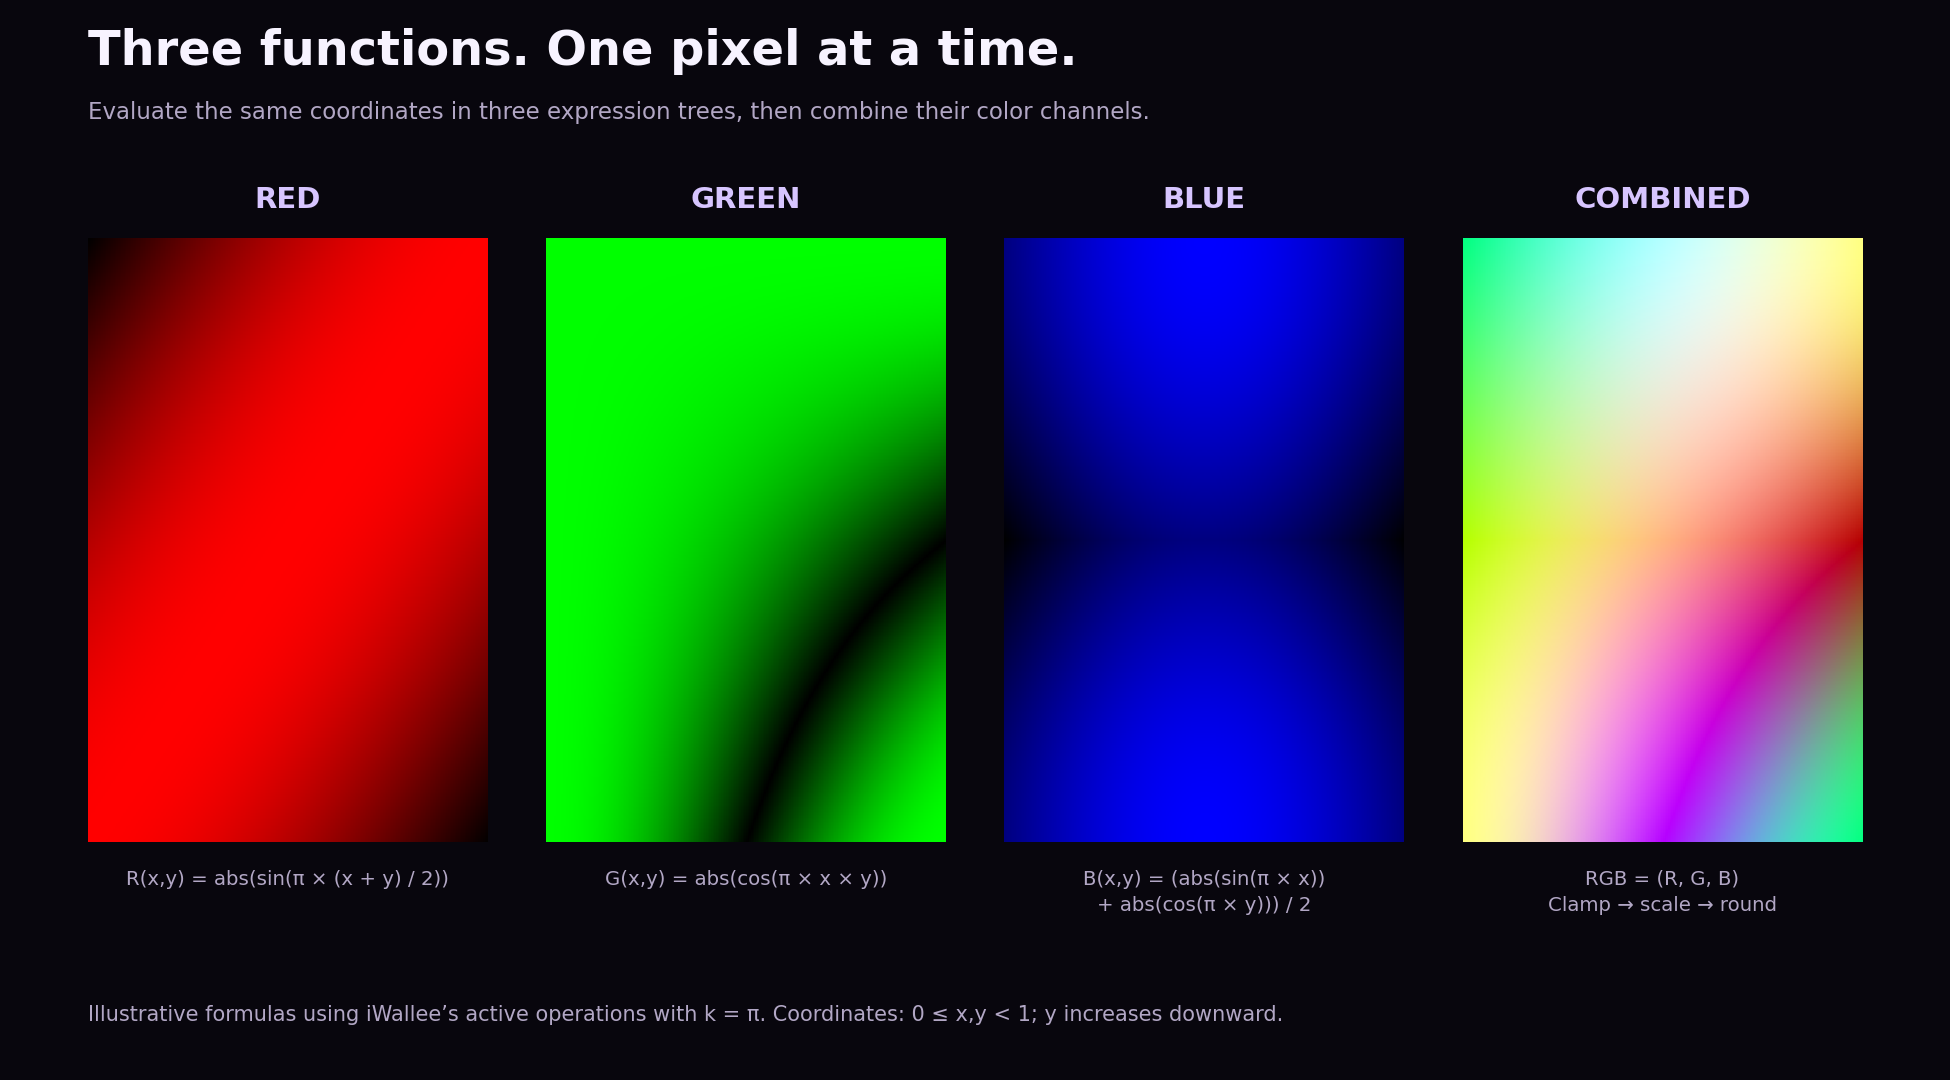
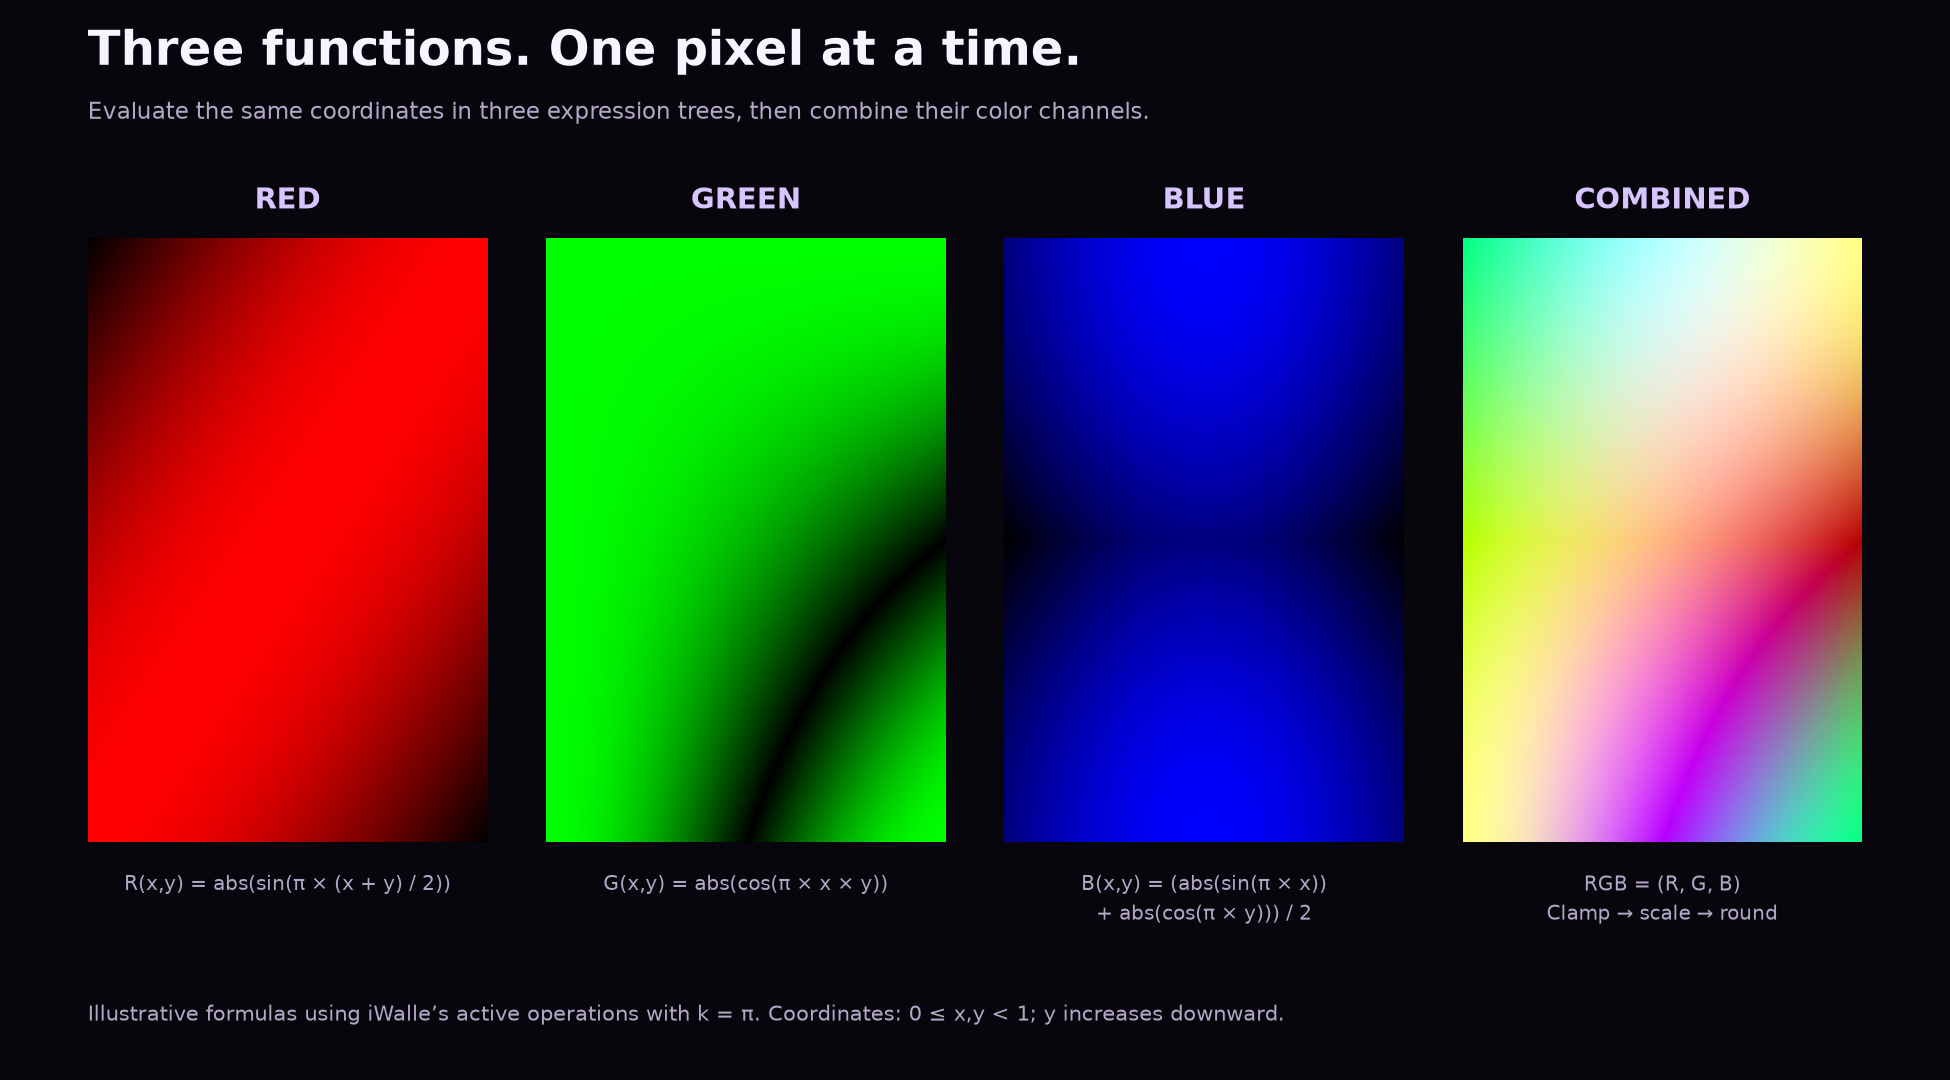
Standardize app branding as iWalle

diff --git a/RandomArt/StudioTheme.swift b/RandomArt/StudioTheme.swift
@@ -1,6 +1,6 @@
 import UIKit
 
-/// One palette and a small set of controls keep every screen feeling like iWallee.
+/// One palette and a small set of controls keep every screen feeling like iWalle.
 enum StudioTheme {
     static let background = UIColor(hex: 0x08060D)
     static let surface = UIColor(hex: 0x15101F)
@@ -29,7 +29,7 @@ enum StudioTheme {
     }
 
     static func logoView(size: CGFloat) -> UIImageView {
-        let imageView = UIImageView(image: UIImage(named: "iWalleeMark"))
+        let imageView = UIImageView(image: UIImage(named: "iWalleMark"))
         imageView.contentMode = .scaleAspectFit
         imageView.layer.cornerRadius = size * 0.22
         imageView.clipsToBounds = true

diff --git a/RandomArt/ViewControllers/SideBarMenuVC.swift b/RandomArt/ViewControllers/SideBarMenuVC.swift
@@ -2,7 +2,7 @@
 //  SideBarMenuVC.swift
 //  RandomArt
 //
-//  Purple-and-black navigation for the iWallee studio.
+//  Purple-and-black navigation for the iWalle studio.
 //
 
 import UIKit
@@ -61,7 +61,7 @@ class SideBarMenuVC: UIViewController {
 
         let logo = StudioTheme.logoView(size: 52)
         profileView = logo
-        let title = StudioTheme.label("iWallee", size: 25, weight: .bold)
+        let title = StudioTheme.label("iWalle", size: 25, weight: .bold)
         title.numberOfLines = 0
         let subtitle = StudioTheme.label("MATH INTO ART", size: 10, weight: .semibold,
                                         color: StudioTheme.lavender)

diff --git a/RandomArt/ViewControllers/HowToChangeWallpaperVC.swift b/RandomArt/ViewControllers/HowToChangeWallpaperVC.swift
@@ -53,7 +53,7 @@ class HowToChangeWallpaperVC: UIViewController {
         ))
         content.addArrangedSubview(instruction(
             number: "02", title: "Save the one you love",
-            body: "Tap Save in Studio, or Save to Photos in the Collection, and allow iWallee to add the image to your library. Wait for the saved confirmation before leaving."
+            body: "Tap Save in Studio, or Save to Photos in the Collection, and allow iWalle to add the image to your library. Wait for the saved confirmation before leaving."
         ))
         content.addArrangedSubview(instruction(
             number: "03", title: "Give it a home",

diff --git a/RandomArtTests/RandomArtTests.swift b/RandomArtTests/RandomArtTests.swift
@@ -3,6 +3,13 @@ import UIKit
 @testable import RandomArt
 
 final class RandomArtTests: XCTestCase {
+    @MainActor
+    func testProductBrandingMatchesAppStoreName() {
+        let appBundle = Bundle(for: CanvasVC.self)
+        XCTAssertEqual(appBundle.object(forInfoDictionaryKey: "CFBundleDisplayName") as? String, "iWalle")
+        XCTAssertNotNil(UIImage(named: "iWalleMark", in: appBundle, compatibleWith: nil))
+    }
+
     func testGeneratedExpressionsStayInRGBRange() {
         for depth in [1, 2, 4, 7, 11] {
             let tree = MathBinaryTree(depth: depth)

diff --git a/RandomArt/ViewControllers/CanvasV.swift b/RandomArt/ViewControllers/CanvasV.swift
@@ -49,7 +49,7 @@ class CanvasV: UIView {
     // This changes with the displayed image, not when the next complexity is selected.
     var currentFormulas: WallpaperFormulas? { currentEquations?.formulas }
 
-    private let renderingQueue = DispatchQueue(label: "iwallee.wallpaper.render", qos: .userInitiated)
+    private let renderingQueue = DispatchQueue(label: "iwalle.wallpaper.render", qos: .userInitiated)
 
     override func awakeFromNib() {
         super.awakeFromNib()

diff --git a/RandomArt/ViewControllers/WallpaperLaunchAnimationView.swift b/RandomArt/ViewControllers/WallpaperLaunchAnimationView.swift
@@ -23,7 +23,7 @@ final class WallpaperLaunchAnimationView: UIView {
     private var previousAccessibilityHidden = false
     private var usesReducedMotion = false
     private let glow = CAGradientLayer()
-    private let titleLabel = StudioTheme.label("iWallee", size: 27, weight: .bold)
+    private let titleLabel = StudioTheme.label("iWalle", size: 27, weight: .bold)
 
     override init(frame: CGRect) {
         super.init(frame: frame)

diff --git a/RandomArt/DataStructures/MathBinaryTree.swift b/RandomArt/DataStructures/MathBinaryTree.swift
@@ -28,7 +28,7 @@ final class MathBinaryTree {
     private let root: Node<MathOperation>
 
     // Deliberately keep the original generator's operation set to preserve
-    // the familiar visual character of existing iWallee wallpapers.
+    // the familiar visual character of existing iWalle wallpapers.
     private static let generatedOperations: [MathOperation] = [
         .multiply, .average, .cosine, .sine
     ]

diff --git a/RandomArt/ViewControllers/CanvasVC.swift b/RandomArt/ViewControllers/CanvasVC.swift
@@ -60,7 +60,7 @@ class CanvasVC: UIViewController {
         pin(shade, to: root)
 
         let brand = UIStackView(arrangedSubviews: [
-            StudioTheme.label("iWallee", size: 22, weight: .bold),
+            StudioTheme.label("iWalle", size: 22, weight: .bold),
             eyebrow("WALLPAPER STUDIO", color: StudioTheme.secondaryText)
         ])
         brand.axis = .vertical

diff --git a/RandomArt/ViewControllers/WallpaperFormulaVC.swift b/RandomArt/ViewControllers/WallpaperFormulaVC.swift
@@ -215,7 +215,7 @@ final class WallpaperFormulaVC: UIViewController {
 
     @objc private func copyAllFormulas() {
         UIPasteboard.general.string = """
-        \(wallpaperName.isEmpty ? "iWallee wallpaper" : wallpaperName)
+        \(wallpaperName.isEmpty ? "iWalle wallpaper" : wallpaperName)
         Expression depth: \(formulas.depth)
 
         R(x,y) = \(formulas.red)

diff --git a/scripts/render_doc_illustrations.py b/scripts/render_doc_illustrations.py
@@ -1,5 +1,5 @@
 #!/usr/bin/env python3
-"""Rebuild iWallee's explanatory figures (optional docs tooling).
+"""Rebuild iWalle's explanatory figures (optional docs tooling).
 
 Requires NumPy and Matplotlib. These are not iOS app dependencies.
 The examples use the app's current coordinate domain and active operators.
@@ -69,7 +69,7 @@ def rgb_example():
         image_axis(fig, [0.045 + index * 0.235, 0.22, 0.205, 0.56], pixels,
                    title, captions[index])
     fig.text(0.045, 0.055,
-             "Illustrative formulas using iWallee’s active operations with k = π. Coordinates: 0 ≤ x,y < 1; y increases downward.",
+             "Illustrative formulas using iWalle’s active operations with k = π. Coordinates: 0 ≤ x,y < 1; y increases downward.",
              fontsize=10, color=MUTED)
     fig.savefig(OUT / "algorithm-rgb.png", facecolor=BG)
     plt.close(fig)

diff --git a/docs/release-preparation.md b/docs/release-preparation.md
@@ -4,7 +4,7 @@
 
 ## Release identity
 
-The prepared release is **1.1 (build 2)**. App Store Connect history was checked against the existing 1.0 (build 1) release before choosing these values. The 1.1 draft has passed Add for Review validation and is **Ready for Review**, with one draft submission whose item is ready to submit. **Submit for Review** is enabled and has been left for the user.
+The prepared release is **1.1 (build 2)**. App Store Connect history was checked against the existing 1.0 (build 1) release before choosing these values. The 1.1 (2) submission was rejected on November 25, 2026 under Guideline 4.3(a). The local branding correction to **iWalle** is newer than the submitted binary; a subsequent upload requires a new build number.
 
 | Setting | Release value |
 | --- | --- |
@@ -29,7 +29,7 @@ An unused `fileprivate` image-storage helper previously wrote to `UserDefaults`.
 
 Apple's [TN3181](https://developer.apple.com/documentation/technotes/tn3181-debugging-invalid-privacy-manifest) explains that empty accessed-API declarations should be removed and that a nontracking app can set `NSPrivacyTracking` to `false` while omitting tracking domains. [TN3184](https://developer.apple.com/documentation/technotes/tn3184-adding-data-collection-details-to-your-privacy-manifest) describes adding collected-data entries when data is collected. A syntactically valid plist still needs accurate keys and values.
 
-The Photos purpose text in Info.plist says: “iWallee saves wallpapers you choose to your photo library.” Photos are added when the user requests a save; the app does not read their photo library.
+The updated local Photos purpose text in Info.plist says: “iWalle saves wallpapers you choose to your photo library.” Photos are added when the user requests a save; the app does not read their photo library.
 
 The policy source is [docs/privacy-policy.md](privacy-policy.md). After the user approved its publication and contact information, it was published on public `master` in commit `6f8bc0be19c618b8aefebe990ff999debc9f5eaf`. An anonymous HTTP request returned 200 and verified the policy title, Photos and formula-copying sections, and approved contact information.
 
@@ -49,11 +49,11 @@ The final signed Release archive for generic iOS succeeded with Xcode 26.2 and t
 
 The archive uses the existing Apple Development identity and development provisioning profile. The subsequent App Store export and upload succeeded through the configured Xcode account and automatic-signing workflow. Xcode handles distribution signing during export; [cloud-managed signing](https://developer.apple.com/help/account/certificates/cloud-managed-certificates/) is also available through the Organizer distribution flow.
 
-The final archive is `~/Library/Developer/Xcode/Archives/2026-11-18/iWallee-1.1-build2-final-20261118-222447.xcarchive`. Its build/upload logs, verification results, backups, and `ExportOptions.plist` are outside the repository in `~/Library/Developer/Xcode/iWalleeReleasePreparation/1.1-build2-final-20261118-222447/`. The path date follows the Mac’s local clock.
+The submitted build 2 archive is retained under `~/Library/Developer/Xcode/Archives/2026-11-18/`. Its build/upload logs and export options are retained separately in Xcode’s local release-preparation folder. These are historical records of the submitted binary.
 
 The completed export/upload used `method = app-store-connect`, `destination = upload`, automatic signing, the existing team, symbol upload, and `manageAppVersionAndBuildNumber = false` to preserve the chosen identifiers. Internal-only TestFlight distribution was disabled so the build remains eligible for an App Store release.
 
-Xcode reported **Upload succeeded** and **EXPORT SUCCEEDED**, with exit code 0, on November 19, 2026 at 06:26 UTC. Apple subsequently processed the build, and **1.1 (2)** is selected in the App Store Connect draft. Add for Review validation passed. Apple’s review has not been submitted or completed.
+Xcode reported **Upload succeeded** and **EXPORT SUCCEEDED**, with exit code 0, on November 19, 2026 at 06:26 UTC. Apple subsequently processed the build, and **1.1 (2)** is selected in the App Store Connect draft. Add for Review validation passed. The owner submitted the draft; Apple rejected it on November 25, 2026 under Guideline 4.3(a).
 
 The upload returned two future-requirement warnings: starting April 2027, it says uploads and distribution submissions must use the iOS 27 SDK included in Xcode 27 or later, and iOS apps must target iOS 15 or later. These warnings did not prevent this upload. Recheck Apple’s current requirements before a later release.
 
@@ -70,15 +70,15 @@ The upload returned two future-requirement warnings: starting April 2027, it say
 - App Store Connect export/upload completed successfully, build processing completed, and build 2 is selected for version 1.1.
 - The approved privacy policy was published and verified publicly with an anonymous HTTP 200 response.
 - Five screenshots and the listing/review metadata persisted in App Store Connect.
-- Add for Review validation passed; the draft submission item is ready to submit.
+- Add for Review validation passed; the draft was ready to submit before the owner submitted it.
 
 ## Submission handoff
 
-App Store Connect initially blocked new-version creation with an Agreement Update modal. The Apple Developer account subsequently showed that the updated agreement had been accepted on November 18, 2026. The agreement block was cleared, the iOS 1.1 draft was created, and the draft has now passed Add for Review validation.
+App Store Connect initially blocked new-version creation with an Agreement Update modal. The Apple Developer account subsequently showed that the updated agreement had been accepted on November 18, 2026. The agreement block was cleared, the iOS 1.1 draft was created, and the draft passed Add for Review validation before submission.
 
 The existing listing name **iWalle** was preserved. The subtitle is **Wallpapers made with math**. All five screenshots, the release metadata, and App Review contact details are saved in App Store Connect. The age-rating questionnaire is complete with a **4+** rating, the privacy declaration remains **Data Not Collected**, and **manual release** is selected. Private account and review-contact details are maintained in App Store Connect.
 
-The live state is **Ready for Review**, with **Draft Submissions (1)** and an item marked **Ready to Submit**. **Submit for Review** is enabled and has not been clicked. The final review submission remains the user’s action. If Apple approves the version, manual release leaves **Release This Version** as a separate user action. No beta-group assignment has been performed.
+The owner submitted version 1.1 (2). Apple rejected it under Guideline 4.3(a) on November 25, 2026. The local naming correction does not change the uploaded binary or resolve the rejection by itself. No new build has been uploaded or resubmitted. Manual release remains selected.
 
 The App Store Connect privacy-policy field retains the existing URL, https://iwalle-privacypolicy.web.app/, at the owner’s request. The replacement GitHub policy is public and is used by the in-app menu button. The older hosted page contains generic diagnostic-data and personal-information wording that does not match the audited app; its text should be reconciled with the current policy. The attempted URL change did not persist in App Store Connect, so the existing URL was left in place and the release draft was restored for the owner’s review.
 

diff --git a/README.md b/README.md
@@ -1,22 +1,24 @@
 <p align="center">
-  <img src="RandomArt/Assets.xcassets/iWalleeMark.imageset/iWalleeMark.png" width="96" alt="iWallee's purple wave logo">
+  <img src="RandomArt/Assets.xcassets/iWalleMark.imageset/iWalleMark.png" width="96" alt="iWalle's purple wave logo">
 </p>
 
-<h1 align="center">iWallee</h1>
+<h1 align="center">iWalle</h1>
 
 <p align="center"><strong>A wallpaper studio where every color comes from an equation.</strong></p>
 
 <p align="center">Swift · UIKit · Recursive expression trees · Offline rendering</p>
 
-iWallee turns randomly assembled mathematical expressions into colorful iPhone wallpapers. Each image has three functions: one for red, one for green, and one for blue. Evaluate them across a canvas and an abstract composition appears—sometimes a soft gradient, sometimes a field of waves, sometimes a dense pattern.
+iWalle turns randomly assembled mathematical expressions into colorful iPhone wallpapers. Each image has three functions: one for red, one for green, and one for blue. Evaluate them across a canvas and an abstract composition appears—sometimes a soft gradient, sometimes a field of waves, sometimes a dense pattern.
 
-The project began when **Ronald Guerra** adapted a classroom exercise he enjoyed into an iOS app. Its repository history begins in August 2020. The product name is **iWallee**; the repository is `wally`, while the Xcode workspace, scheme, and module still use **RandomArt**.
+The project began when **Ronald Guerra** adapted a classroom exercise he enjoyed into an iOS app. Its repository history begins in August 2020. The product name is **iWalle**; the repository is `wally`, while the Xcode workspace, scheme, and module still use **RandomArt**.
 
 ## A look inside
 
+The preview media below documents the previously submitted build. Its screenshots and recording predate the current spelling correction; refresh them from the final build before the next store submission.
+
 <p align="center">
   <img src="docs/images/opening.gif" width="240" alt="Four mathematical wallpaper cards arriving one after another and settling into a stack">
-  <img src="docs/images/studio.png" width="240" alt="The purple and black iWallee studio showing a generated wallpaper and its controls">
+  <img src="docs/images/studio.png" width="240" alt="The purple and black iWalle studio showing a generated wallpaper and its controls">
   <img src="docs/images/formula.png" width="240" alt="The formula sheet showing the red channel's mathematical expression">
 </p>
 
@@ -59,12 +61,12 @@ This project belongs to the **Random Art** tradition of making images from mathe
 
 | Work | Connection to the idea |
 | --- | --- |
-| [Karl Sims, *Artificial Evolution for Computer Graphics* (1991)](https://www.karlsims.com/papers/siggraph91-backup.html) and [*Genetic Images* (1993)](https://www.karlsims.com/genetic-images.html) | Symbolic expressions generated pictures; selection and evolution produced new generations. iWallee does not implement that evolutionary process. |
+| [Karl Sims, *Artificial Evolution for Computer Graphics* (1991)](https://www.karlsims.com/papers/siggraph91-backup.html) and [*Genetic Images* (1993)](https://www.karlsims.com/genetic-images.html) | Symbolic expressions generated pictures; selection and evolution produced new generations. iWalle does not implement that evolutionary process. |
 | [UC San Diego CSE 130, Random Art assignment (2005)](https://cseweb.ucsd.edu/classes/fa05/cse130/pa1/pa1.html) | A classroom exercise used coordinate leaves and recursive multiplication, average, sine, and cosine—very close to the educational pattern in this project. |
 | [Christopher A. Stone, Nifty Assignments: Random Art (2009)](https://nifty.stanford.edu/2009/stone-random-art/) | An approachable teaching assignment using recursive expressions and RGB images. It explicitly credits Andrej Bauer's Random Art as inspiration. |
-| [Andrej Bauer's Random Art](https://www.random-art.org/about/) and [Python tutorial (2010)](https://math.andrej.com/2010/04/21/random-art-in-python/) | A public generator and an explanation of how randomly built expressions become images. Bauer's named generator uses the name as a seed; iWallee currently does not. |
+| [Andrej Bauer's Random Art](https://www.random-art.org/about/) and [Python tutorial (2010)](https://math.andrej.com/2010/04/21/random-art-in-python/) | A public generator and an explanation of how randomly built expressions become images. Bauer's named generator uses the name as a seed; iWalle currently does not. |
 
-There are real differences between implementations. Several teaching versions use coordinates and outputs in `[-1, 1]`; iWallee samples coordinates in `[0, 1)`, uses absolute trigonometric results, and generates three separate trees. Its wallpaper name is assigned afterward and does not reproduce the image. See [history and implementation differences](docs/algorithm.md#history-and-implementation-differences) for details and original sources.
+There are real differences between implementations. Several teaching versions use coordinates and outputs in `[-1, 1]`; iWalle samples coordinates in `[0, 1)`, uses absolute trigonometric results, and generates three separate trees. Its wallpaper name is assigned afterward and does not reproduce the image. See [history and implementation differences](docs/algorithm.md#history-and-implementation-differences) for details and original sources.
 
 ## Architecture
 
